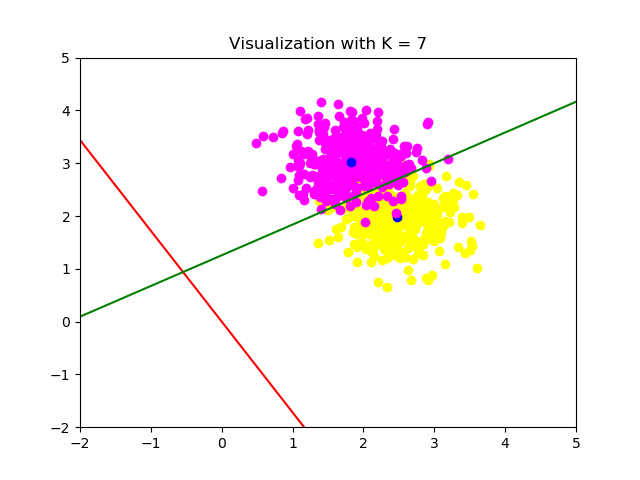
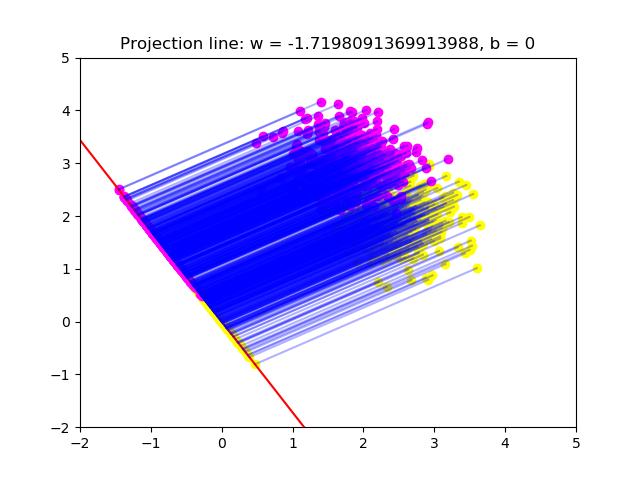
change code to fit modifying spec

diff --git a/HW2/0516075_HW2.py b/HW2/0516075_HW2.py
@@ -79,32 +79,42 @@ def compute_accuracy(y_pred, y_test):
 
 def plot_result(x_train, y_train, weight, class_mean):
     fig = plt.figure()
-    plt.title("Visualization with K = {}".format(K))
     plt.xlim(-2, 5)
     plt.ylim(-2, 5)
     # Plot project line
     project_x = np.linspace(-5, 5, 30)
     project_slope = weight[1] / weight[0]
     # Through origin, hence b = 0
-    project_func = np.poly1d([project_slope, 0])
+    project_intercept = 0
+    project_func = np.poly1d([project_slope, project_intercept])
     project_y = project_func(project_x)
     plt.plot(project_x, project_y, c='red')
+    plt.title("Projection line: w = {}, b = {}" \
+            .format(project_slope[0], project_intercept))
     # Plot decision boundary
-    middle_mean = np.mean(class_mean, axis=0)
+    # middle_mean = np.mean(class_mean, axis=0)
     # Since orthogonal to project line
     decision_slope = (-1) / project_slope
-    decision_intercept = middle_mean[1] - decision_slope * middle_mean[0]
-    decision_func = np.poly1d([decision_slope[0], decision_intercept[0]])
-    decision_x = np.linspace(-5, 5, 30)
-    decision_y = decision_func(decision_x)
-    plt.plot(decision_x, decision_y, c='g')
+    # decision_intercept = middle_mean[1] - decision_slope * middle_mean[0]
+    # decision_func = np.poly1d([decision_slope[0], decision_intercept[0]])
+    # decision_x = np.linspace(-5, 5, 30)
+    # decision_y = decision_func(decision_x)
+    # plt.plot(decision_x, decision_y, c='g')
     # Plot training data
     colors = ['yellow', 'magenta']
     for class_idx in range(CLASS):
         match_idx = np.where(y_train == class_idx)
         match_data = x_train[match_idx]
         plt.scatter(match_data[:, 0], match_data[:, 1], c=colors[class_idx])
-        plt.scatter(class_mean[class_idx, 0], class_mean[class_idx, 1], c='b')
+        # Plot project line of each point
+        for idx, data in enumerate(match_data):
+            decision_intercept = data[1] - decision_slope * data[0]
+            a = np.array([[project_slope[0], -1], \
+                        [decision_slope[0], -1]])
+            b = np.array([-project_intercept, -decision_intercept[0]])
+            lower_data = np.linalg.solve(a, b)
+            plt.scatter(lower_data[0], lower_data[1], c=colors[class_idx])
+            plt.plot([data[0], lower_data[0]], [data[1], lower_data[1]], c='b', alpha=0.3)
     plt.savefig('visualization.png')
 
 
